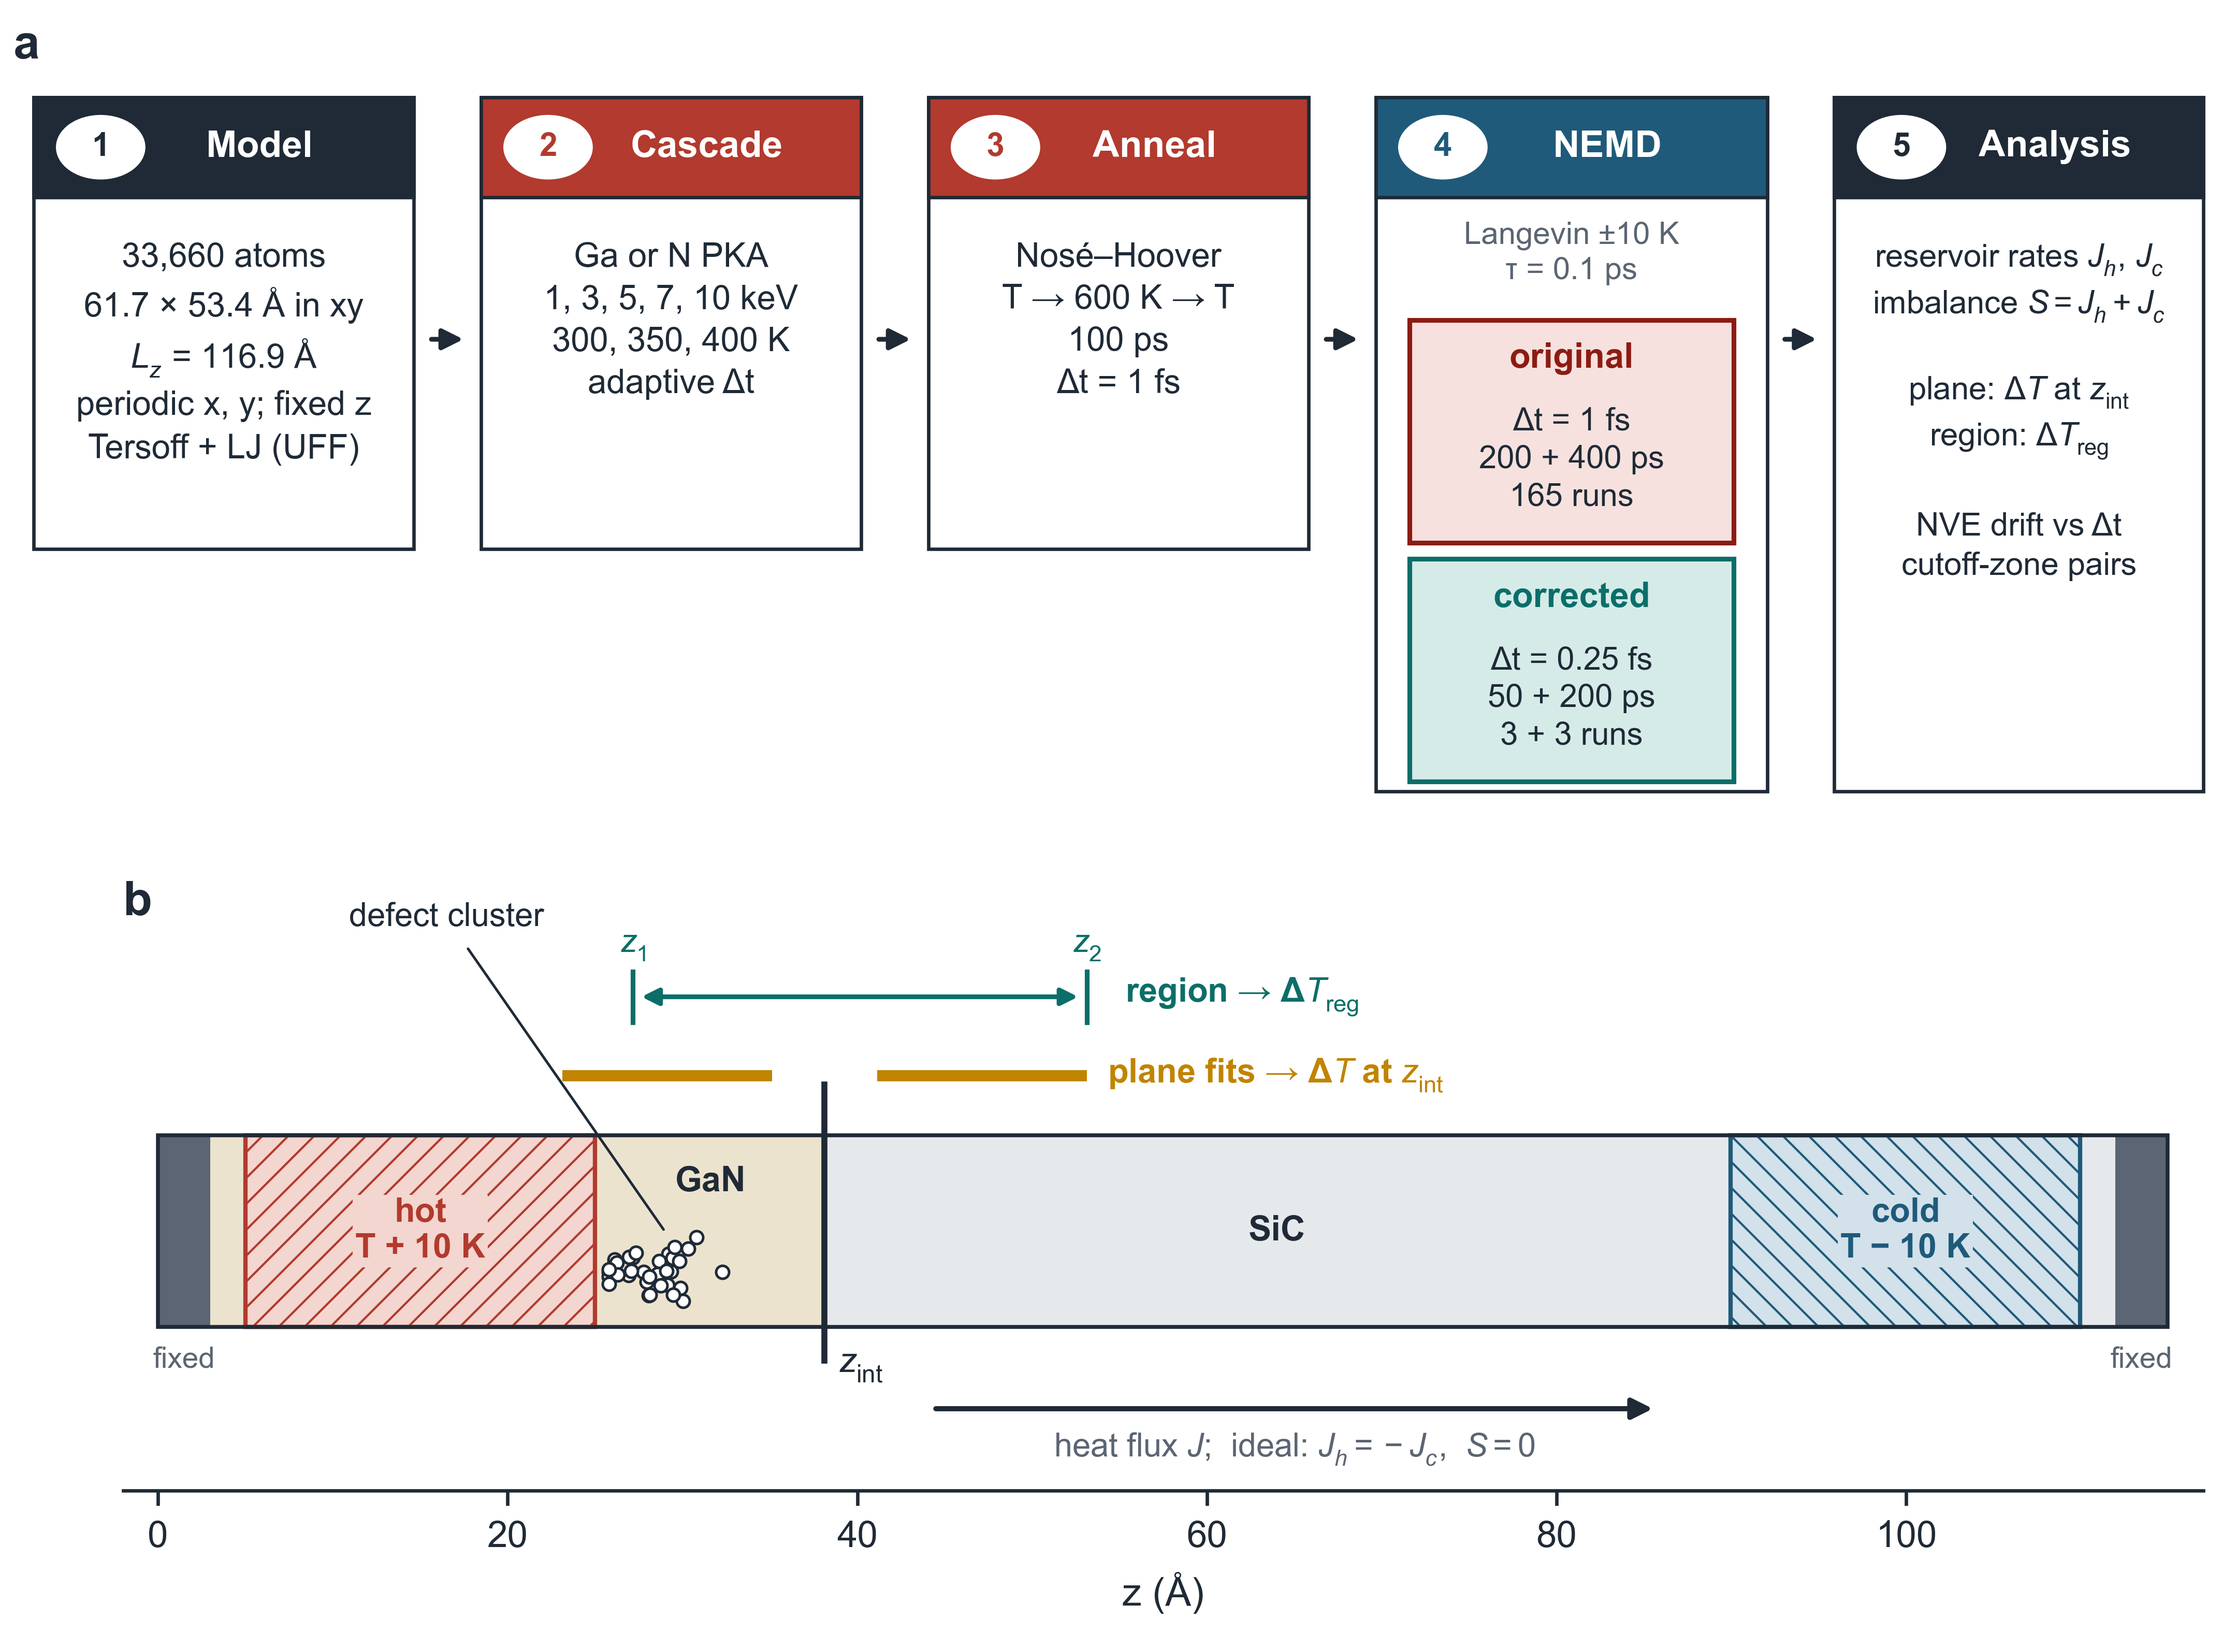
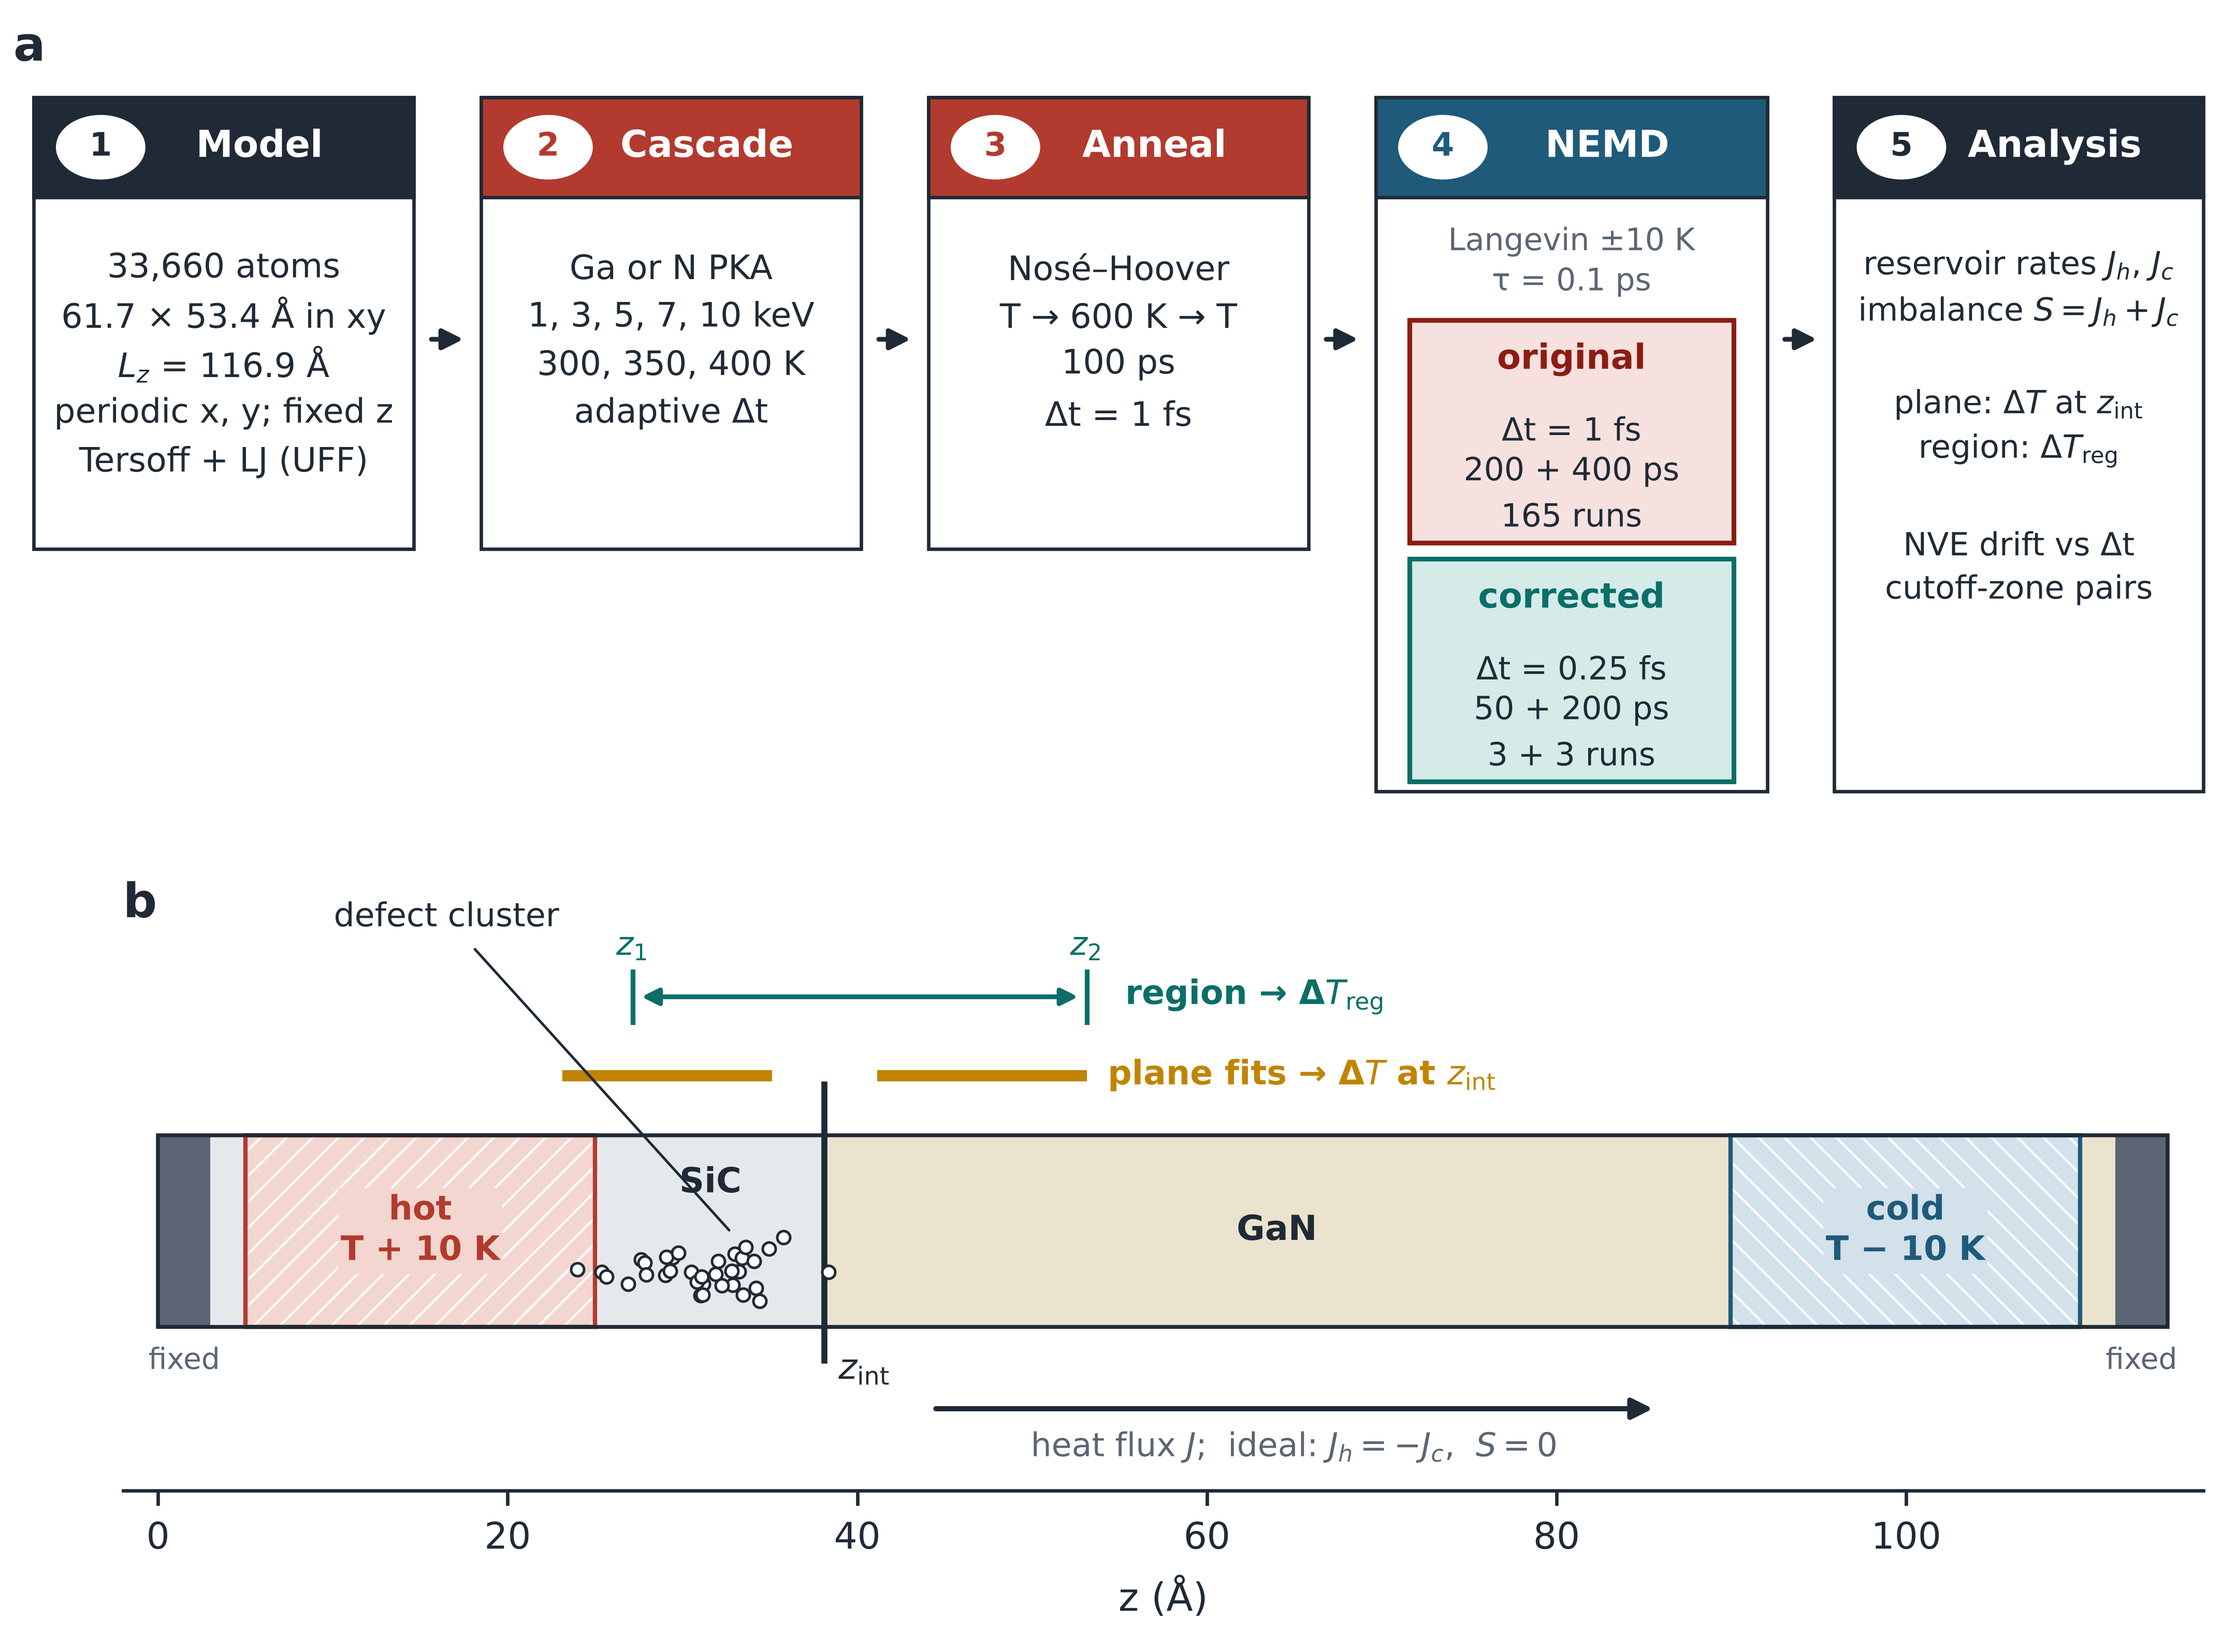
Correct SiC/GaN side labels; regenerate Fig. 1 and Fig. 5 (n = 165)

diff --git a/analysis/plot_fig1.py b/analysis/plot_fig1.py
@@ -145,8 +145,8 @@ ax.text(-2, 10.2, "b", fontsize=11, weight="bold", va="top")
 Y0, H = 2.3, 3.4
 
 # Material blocks
-ax.add_patch(Rectangle((0,   Y0), ZI,       H, fc=GAN_T, ec="none"))
-ax.add_patch(Rectangle((ZI,  Y0), Z1 - ZI,  H, fc=SIC_T, ec="none"))
+ax.add_patch(Rectangle((0,   Y0), ZI,       H, fc=SIC_T, ec="none"))
+ax.add_patch(Rectangle((ZI,  Y0), Z1 - ZI,  H, fc=GAN_T, ec="none"))
 
 # Thermostat regions
 ax.add_patch(Rectangle((5.0,       Y0), 20.0, H, fc=HOT_T,  ec=HOT,  lw=1.0, hatch="////"))
@@ -166,8 +166,8 @@ ax.text(15.0, Y0 + H / 2, "hot\nT + 10 K",
 ax.text(Z1 - 15.0, Y0 + H / 2, "cold\nT − 10 K",
         ha="center", va="center", fontsize=7.8, weight="bold", color=COLD,
         bbox=dict(fc=COLD_T, ec="none", pad=0.6))
-ax.text(31.6, Y0 + H - 0.55, "GaN",  ha="center", va="top",    fontsize=8, weight="bold")
-ax.text(64.0, Y0 + H / 2,    "SiC",  ha="center", va="center", fontsize=8, weight="bold")
+ax.text(31.6, Y0 + H - 0.55, "SiC",  ha="center", va="top",    fontsize=8, weight="bold")
+ax.text(64.0, Y0 + H / 2,    "GaN",  ha="center", va="center", fontsize=8, weight="bold")
 
 for zc in (1.5, Z1 - 1.5):
     ax.text(zc, Y0 - 0.35, "fixed", ha="center", va="top", fontsize=6.8, color=MUTE)
@@ -178,10 +178,10 @@ ax.text(ZI + 0.8, Y0 - 0.45, "$z_{\\rm int}$", ha="left", va="top", fontsize=8.2
 
 # Defect cluster (schematic scatter)
 rng = np.random.default_rng(7)
-zz  = np.clip(29.2 + rng.normal(0, 2.3, 34), 25.8, 37.3)
+zz  = np.clip(33.0 + rng.normal(0, 4.0, 34), 24.0, 44.0)
 ax.scatter(zz, 3.25 + rng.normal(0, 0.32, 34),
            s=9, facecolors="white", edgecolors=INK, lw=0.6, zorder=4)
-ax.annotate("defect cluster", (29.2, 3.9), xytext=(16.5, 9.4),
+ax.annotate("defect cluster", (33.0, 3.9), xytext=(16.5, 9.4),
             fontsize=7.6, ha="center",
             arrowprops=dict(arrowstyle="-", lw=0.6, color=INK, shrinkB=2))
 

diff --git a/analysis/region_resistance.py b/analysis/region_resistance.py
@@ -3,8 +3,8 @@
 Compute the region-based thermal conductance G_reg for each run.
 
 G_reg is defined as J_tb / (A * deltaT_reg), where deltaT_reg = T(z1) - T(z2).
-  z1 = zlo + 27 A  (2 A inside the damage-free GaN, just beyond the hot-reservoir edge)
-  z2 = Z_INT + 15 A (SiC side, outside the damaged region, estimated by linear extrapolation)
+  z1 = zlo + 27 A  (SiC, 2 A beyond the hot-reservoir edge)
+  z2 = Z_INT + 15 A (GaN, from a linear fit to the GaN profile)
 
 This measure is insensitive to the precise location of the interface plane and
 includes the thermal resistance of the entire damaged layer rather than just
@@ -49,11 +49,11 @@ for r in csv.DictReader(open(sys.argv[1])):
 
     z, T = bl[0][:, 0], np.mean([b[:, 1] for b in bl], axis=0)
 
-    # z1: 2 A inside the GaN free region (hot-reservoir right edge is at zlo + 25 A)
+    # z1: 2 A beyond the hot-reservoir edge (zlo + 25 A), in SiC
     z1 = zlo + 25.0 + 2.0
     T1 = np.interp(z1, z, T)
 
-    # z2: extrapolate the SiC temperature profile to ZI + 15 A
+    # z2: extrapolate the GaN temperature profile to ZI + 15 A
     m  = (z > ZI + 3) & (z < ZI + 25)
     T2 = np.polyval(np.polyfit(z[m], T[m], 1), ZI + 15)
 
@@ -68,5 +68,5 @@ for r in csv.DictReader(open(sys.argv[1])):
 
 print(
     "\nG_reg = J_tb / (A * deltaT_reg): conductance of the region [z1, ZI + 15 A], "
-    "spanning the GaN damage zone, the interface, and 15 A of SiC."
+    "spanning 11 A of SiC (most of the cascade damage), the interface, and 15 A of GaN."
 )

diff --git a/analysis/recompute_G.py b/analysis/recompute_G.py
@@ -186,10 +186,10 @@ def parse_profile(path, Lz, zlo=0.0, tmin_step=None):
 def deltaT(z, T):
     """
     Estimate the temperature discontinuity at z = Z_INT by linear extrapolation
-    from the GaN side (left window) and the SiC side (right window).
+    from the SiC side (left window, hot reservoir) and the GaN side (right window, cold reservoir).
 
-    Fitting windows: [Z_INT - FH, Z_INT - EX] on the GaN side and
-                     [Z_INT + EX, Z_INT + FH] on the SiC side.
+    Fitting windows: [Z_INT - FH, Z_INT - EX] on the SiC side and
+                     [Z_INT + EX, Z_INT + FH] on the GaN side.
     """
     L = (z > Z_INT - FH) & (z < Z_INT - EX)
     R = (z < Z_INT + FH) & (z > Z_INT + EX)
@@ -298,7 +298,9 @@ for root in sys.argv[1:]:
             G_reg = Jtb * CONV / (A * 1e-20) / (T1 - T2) / 1e6
 
             # Quality-control flag: valid run requires positive deltaT,
-            # signal-to-noise >= 3, and no spurious heat source leaking into SiC
+            # signal-to-noise >= 3, and no temperature maximum on the GaN side beyond Z_INT + EX.
+            # Column names TmaxGaN_minus_Thot / sic_peak are kept from the original pipeline:
+            # 'gan' below is the free SiC between hot reservoir and interface, 'sic' the GaN side.
             gan      = (zm > 25.2) & (zm < Z_INT)
             sic      = (zm > Z_INT + EX) & (zm < Z_INT + 40)
             sic_peak = Tm[sic].max() - Tm[sic][0]

diff --git a/analysis/window_sensitivity.py b/analysis/window_sensitivity.py
@@ -4,7 +4,7 @@ Assess the sensitivity of G_corr to the choice of fitting-window parameters
 (exclusion half-width EX and fitting half-width FH).
 
 For each (EX, FH) combination the script reports:
-  - whether the fitting window on the GaN side overlaps the hot thermostat (z < zlo + 25.2 A)
+  - whether the fitting window on the SiC side (z < Z_INT) overlaps the hot thermostat (z < zlo + 25.2 A)
   - median G_corr at each cascade energy level
   - Spearman rank correlation between E and G_corr for E <= 5 keV and all energies
 

diff --git a/analysis/plot_paper_figs.py b/analysis/plot_paper_figs.py
@@ -184,7 +184,7 @@ def fig3(rgpy, specs):
         ax.axhline(Ts, color="0.6", lw=0.7, ls="--")
     ax.axvline(38.126, color="k", lw=0.8)
     ax.text(38.9, 0.10, "$z_{int}$", fontsize=8, transform=xt)
-    ax.text(31.6, 0.03, "free GaN", ha="center", fontsize=7, transform=xt)
+    ax.text(31.6, 0.03, "free SiC", ha="center", fontsize=7, transform=xt)
     ax.set(xlabel="z (Å)", ylabel="T (K)", ylim=lim, xlim=(0, 115))
     ax.legend(fontsize=7, loc="upper center", bbox_to_anchor=(0.5, -0.2), ncol=3)
 
